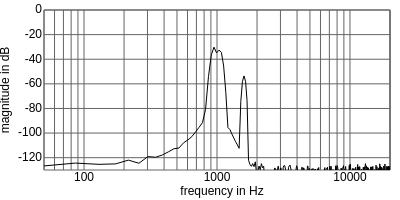
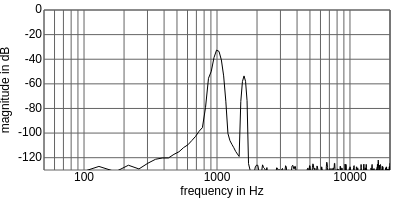
Deploying to gh-pages from @ HSU-ANT/jsdafx@eda25dbcdcd1445925f310c6d4d6ca9c1823e423 🚀

diff --git a/common.js b/common.js
@@ -1,1 +1,1 @@
-const e="object"==typeof global?global:self,t=[].findIndex||function(e,t){let n=this.length;for(;n--;)if(e.call(t,this[n]))return n;return n},n=Object.defineProperty,i="__event-target__"+Math.random(),o=e.WeakMap||function(){return{get:e=>e[i],set(e,t){n(e,i,{configurable:!0,value:t})}}};let r=e.EventTarget;try{new r}catch(e){r=(()=>{const e=new o,i=t=>e.get(t)||r(t),r=t=>{const n=new f;return e.set(t,n),n},l=(e,t)=>{for(const i in t)n(e,i,{configurable:!0,value:t[i]})};function s(){}function a(e){const t=e.options;t&&t.once&&u.call(e.target,this.type,e.listener,e.options),"function"==typeof e.listener?e.listener.call(e.target,this):e.listener.handleEvent(this)}function c(e){return this===e.listener}function u(e,n,o){const r=i(this)[e];if(r){const e=t.call(r,c,n);-1<e&&r.splice(e,1)}}function f(){}return l(s.prototype,{addEventListener:function(e,n,o){const r=i(this),l=r[e]||(r[e]=[]);t.call(l,c,n)<0&&l.push({target:this,listener:n,options:o})},dispatchEvent:function(e){const t=i(this)[e.type];t&&(l(e,{currentTarget:this,target:this}),t.forEach(a,e),delete e.currentTarget,delete e.target);return!0},removeEventListener:u}),f.prototype=Object.create(null),s})()}var l=r;function s(e){const{width:t,height:n}=e,i=e.getContext("2d");let o=!0,r=2e4,l=50,s=null,a=0,c=-80,u=null,f=[],h=null,d=null,p=null,m=30;let v=t-m-10;const g=10;let y=17,T=n-g-y,b=null;const w=function(e){return(r-l)*(e-m)/v+l},k=function(e){return l*Math.pow(10,Math.log10(r/l)*(e-m)/v)};let x=k;const E=function(e){return(e-l)*v/(r-l)+m},A=function(e){return Math.log10(e/l)/Math.log10(r/l)*v+m};let M=A;const P=function(e){return g+T/(c-a)*(e-a)},D=function(e){const t=Math.pow(10,Math.floor(Math.log10(e)));return(e/=t)>5?e=10:e>2?e=5:e>1&&(e=2),e*t},L=function(){i.clearRect(0,0,t,n),i.font="12px sans-serif",i.textBaseline="middle",i.textAlign="end";const e=D((r-l)/v*30),f=D((a-c)/T*20),h=f>=1?0:-Math.floor(Math.log10(f));for(let e=Math.floor(a/f)*f;e>=c;e-=f)i.strokeStyle="rgb(0, 0, 0)",i.fillText(e.toFixed(h),m-2,P(e));if(i.textBaseline="top",i.textAlign="center",i.setTransform(0,-1,1,0,0,0),u&&i.fillText(u,-(T/2+g),0),i.setTransform(1,0,0,1,0,0),o){i.strokeStyle="rgb(0, 0, 0)";for(let e=Math.pow(10,Math.ceil(Math.log10(l)));e<=r;e*=10)i.fillText(e,M(e),n-y+2)}else{i.strokeStyle="rgb(0, 0, 0)";const t=e>=1?0:-Math.floor(Math.log10(e));for(let o=Math.ceil(l/e)*e;o<=r;o+=e)i.fillText(o.toFixed(t),M(o),n-y+2)}s&&i.fillText(s,m+(t-m)/2,n-y+16);for(let e=Math.floor(a/f)*f;e>=c;e-=f)i.strokeStyle="rgb(100, 100, 100)",i.beginPath(),i.moveTo(M(l),P(e)),i.lineTo(M(r),P(e)),i.stroke();if(o){let e=Math.pow(10,Math.floor(Math.log10(l))),t=Math.ceil(l/e)*e;for(i.strokeStyle="rgb(100, 100, 100)";t<=r;){i.beginPath();const n=M(t);i.moveTo(n,P(a)),i.lineTo(n,P(c)),i.stroke(),t+=e,t>=9.99*e&&(e*=10)}}else for(let t=Math.ceil(l/e)*e;t<=r;t+=e){i.beginPath();const e=M(t);i.moveTo(e,P(a)),i.lineTo(e,P(c)),i.stroke()}i.rect(M(l),P(c),M(r)-M(l),P(a)-P(c)),i.stroke(),b=i.getImageData(0,0,t,n)};this.envelopeMode=!1,this.drawData=function(...e){for(i.putImageData(b,0,0),i.save(),i.beginPath(),i.rect(m,g,t-m-10,n-y-g),i.clip();e.length>=2;){const t=e.shift(),n=e.shift();e.length>=1&&"string"==typeof e[0]?i.strokeStyle=e.shift():i.strokeStyle="rgb(0, 0, 0)",i.beginPath(),i.moveTo(M(t[0]),P(n[0]));for(let e=1;e<n.length;e++)i.lineTo(M(t[e]),P(n[e]));if(this.envelopeMode){for(let e=n.length-1;e>=0;e--)i.lineTo(M(t[e]),P(-n[e]));i.fill()}else i.stroke()}i.restore()},this.drawMarkers=function(e){i.save(),i.fillStyle="rgb(165, 0, 52)",f=[];for(const t of e)f.push([M(t[0]),P(t[1])]),i.beginPath(),i.arc(M(t[0]),P(t[1]),4,0,2*Math.PI),i.fill();i.restore()},Object.defineProperty(this,"xlim",{get:()=>[l,l],set(e){[l,r]=e,L()}}),Object.defineProperty(this,"ylim",{get:()=>[c,c],set(e){[c,a]=e,L()}}),Object.defineProperty(this,"logx",{get:()=>o,set(e){o=e,o?(x=k,M=A):(x=w,M=E),L()}}),Object.defineProperty(this,"xlabel",{get:()=>s,set(e){s=e,y=s?30:16,T=n-g-y,L()}}),Object.defineProperty(this,"ylabel",{get:()=>u,set(e){u=e,m=u?44:30,v=t-m-10,L()}});const S=(e,t,n)=>{h=null;let i=n;for(let n=0;n<f.length;n++){const o=f[n],r=Math.hypot(e-o[0],t-o[1]);r<=i&&(h=n,i=r)}null!==h&&(d=e-f[h][0],p=t-f[h][1])};e.addEventListener("mousedown",(e=>{0===e.button&&S(e.offsetX,e.offsetY,6)})),e.addEventListener("touchstart",(e=>{e.preventDefault(),null===h&&S(e.touches.item(0).pageX-e.target.offsetLeft,e.touches.item(0).pageY-e.target.offsetTop,40)}));const C=()=>{if(null!==h){const e=new Event("markermoveend");e.marker=h,this.dispatchEvent(e),h=null}};e.addEventListener("mouseup",(e=>{0===e.button&&C()})),e.addEventListener("touchend",(e=>{e.preventDefault(),0===e.touches.length&&C()}));const B=(e,t)=>{if(null===h)return;const n=new Event("markermove");n.marker=h,n.valX=x(e-d),n.valY=function(e){return a+(e-g)*(c-a)/T}(t-p),this.dispatchEvent(n)};e.addEventListener("mousemove",(e=>{1===e.buttons?B(e.offsetX,e.offsetY):C()})),e.addEventListener("touchmove",(e=>{e.preventDefault(),B(e.touches.item(0).pageX-e.target.offsetLeft,e.touches.item(0).pageY-e.target.offsetTop)}))}class a extends l{constructor(e){super(),s.call(this,e)}}function c(e,t){const n=new a(t);let i=!1,o=!1;Object.defineProperty(this,"drawWave",{get:()=>i,set(t){i=t,t?(n.logx=!1,n.ylim=[-1,1],n.xlim=[0,e.timeIndices.length-1],n.xlabel="time in samples",n.ylabel="amplitude"):(n.xlim=[50,2e4],n.logx=!o,n.ylim=[-130,0],n.xlabel="frequency in Hz",n.ylabel="magnitude in dB")}}),Object.defineProperty(this,"freqLinear",{get:()=>o,set(e){o=e,i||(n.logx=!o)}}),this.drawWave=!1,function t(){if(setTimeout((()=>requestAnimationFrame(t)),40),i){const t=e.getTimeDomainData();n.drawData(e.timeIndices,t)}else{const t=e.getFrequencyDomainData();n.drawData(e.frequencies,t)}}()}async function u(...e){const t=new(window.AudioContext||window.webkitAudioContext)({latencyHint:"playback"});let n=null,i=null,o=null;const r=t.createAnalyser();r.smoothingTimeConstant=.3,r.minDecibels=-130,r.fftSize=1024;const l=new Float32Array(r.fftSize),s=new Float32Array(r.frequencyBinCount);r.connect(t.destination);let a=null,c=0;await t.audioWorklet.addModule("noisesourceproc.js");const u="object"==typeof e[0]?e[0]:function(e,t){return{init:async n=>{await n.audioWorklet.addModule(e);const i=new AudioWorkletNode(n,t);i.port.postMessage({action:"list-properties"});const o=await(r=i.port,new Promise((e=>{const t=r.onmessage;r.onmessage=n=>{r.onmessage=t,e(n.data)}})));var r;if("list-properties"===o.response)for(const e of o.properties)Object.defineProperty(i,e,{set(t){i.port.postMessage({action:"set-property",param:e,value:t})}});return i},setup:(e,t,n)=>{t.connect(e),e.connect(n)},teardown:e=>{e.disconnect()}}}(...e),f=await u.init(t),h=new Float32Array(r.frequencyBinCount);for(let e=0;e<h.length;e++)h[e]=e*t.sampleRate/2/(h.length-1);const d=new Float32Array(r.fftSize);for(let e=0;e<d.length;e++)d[e]=e;const p=function(){a=null,null!==n&&(n.disconnect(),n=null),null!==i&&(i.disconnect(),i=null),u.teardown(f),t.suspend()};return p(),{start:function(e,l,s){if(p(),t.resume(),a=t.currentTime,e instanceof AudioBuffer)n=t.createBufferSource(),n.buffer=e,c=void 0===l?0:l,void 0!==s&&(n.loopStart=c,n.loopEnd=s),n.loop=!0,n.start(0,c),u.setup(f,n,r);else if("sine"===e.type)n=t.createOscillator(),n.type="sine",n.frequency.value=e.frequency,n.start(),i=t.createGain(),i.gain.value=e.gain,n.connect(i),u.setup(f,i,r);else if("noise"===e.type){if(i=t.createGain(),i.gain.value=e.gain,n=new AudioWorkletNode(t,"noisesource-processor",{numberOfInputs:0,outputChannelCount:[1]}),e.filter&&0!==e.filter.length){o=t.createConvolver();const r=t.createBuffer(1,e.filter.length,t.sampleRate);r.getChannelData(0).set(e.filter),o.normalize=!1,o.buffer=r,n.connect(o),o.connect(i)}else n.connect(i);u.setup(f,i,r)}},stop:p,isPlaying:()=>null!==n,createBuffer:e=>new Promise((n=>{t.decodeAudioData(e,n)})),getTimeDomainData:function(){return r.getFloatTimeDomainData(l),l},timeIndices:d,getFrequencyDomainData:function(){return r.getFloatFrequencyData(s),s},frequencies:h,proc:f,get currentTime(){return t.currentTime},get sampleRate(){return t.sampleRate},get position(){if(null===a)return null;let e=this.currentTime-a;return n instanceof AudioBufferSourceNode&&(e=0!==n.loopEnd?e%(n.loopEnd-n.loopStart)+n.loopStart:(e+c)%n.buffer.duration),e}}}class f extends l{constructor(e){super();const t=e.getContext("2d"),{width:n,height:i}=e,o=Array(n),r=Array(n);let l=null,s=null,a=null,c=null,u=null,f=null;const h=()=>{if(t.fillStyle="rgb(221, 218, 215)",t.strokeStyle="rgb(186, 180, 175)",t.fillRect(0,0,n,i),t.strokeRect(0,0,n,i),l instanceof AudioBuffer){t.fillStyle="rgb(186, 180, 175)",null!==a&&(null!==s?t.fillRect(a,0,s-a,i):(t.beginPath(),t.moveTo(a,0),t.lineTo(a,i),t.stroke())),null!==c&&null!==u&&t.fillRect(c,0,u-c,i),t.fillStyle="black",t.beginPath(),t.moveTo(0,i/2);for(let e=0;e<n;e++)t.lineTo(e,(o[e]+1)*i/2);for(let e=n-1;e>=0;e--)t.lineTo(e,(r[e]+1)*i/2);if(t.fill(),null!==f){const e=Math.round(f/l.duration*n);t.lineWidth=1,t.strokeStyle="rgb(165, 0, 52)",t.beginPath(),t.moveTo(e,0),t.lineTo(e,i),t.stroke(),t.strokeStyle="white",t.beginPath(),t.moveTo(e,(r[e]+1)*i/2),t.lineTo(e,(o[e]+1)*i/2),t.stroke()}}},d=e=>{s=e,a=null,c=null,u=null},p=e=>{a=e,h()},m=()=>{if(null!==s){if(l instanceof AudioBuffer)if(null!==a&&a!==s){s>a&&([s,a]=[a,s]);const e=new Event("selected");e.startPos=s*l.length/n/l.sampleRate,e.endPos=a*l.length/n/l.sampleRate,this.dispatchEvent(e),c=s,u=a}else{const e=new Event("clicked");e.position=s*l.length/n/l.sampleRate,this.dispatchEvent(e)}s=null,a=null,h()}};e.addEventListener("mousedown",(e=>{0===e.button&&d(e.offsetX)})),e.addEventListener("touchstart",(e=>{e.preventDefault(),d(e.touches.item(0).pageX-e.target.offsetLeft)})),e.addEventListener("mousemove",(e=>{p(e.offsetX)})),e.addEventListener("touchmove",(e=>{e.preventDefault(),p(e.touches.item(0).pageX-e.target.offsetLeft)})),e.addEventListener("mouseup",(e=>{0===e.button&&m()})),e.addEventListener("touchend",(e=>{e.preventDefault(),0===e.touches.length&&m()})),e.addEventListener("mouseleave",(()=>{null===s&&(a=null,h())})),Object.defineProperty(this,"signal",{set(e){if(e instanceof AudioBuffer){l=e,o.fill(-1),r.fill(1);for(let e=0;e<l.numberOfChannels;e++){const t=l.getChannelData(e);for(let e=0;e<t.length;e++){const i=Math.round(e*n/t.length);t[e]>o[i]&&(o[i]=t[e]),t[e]<r[i]&&(r[i]=t[e])}}}else l=null;c=null,u=null,h()}}),Object.defineProperty(this,"selection",{get:()=>null!==c&&null!==u?{start:c*l.length/n/l.sampleRate,end:u*l.length/n/l.sampleRate}:null}),Object.defineProperty(this,"playbackPosition",{set(e){f=e,h()}})}}function h(e,t){const n=[];let i=null;const o=document.getElementById("source-select"),r=o.children[1];o.children[0].addEventListener("click",(e=>{e.stopPropagation(),r.style.visibility="visible"===r.style.visibility?"hidden":"visible"}),!1),document.addEventListener("click",(()=>{r.style.visibility="hidden"}),!1);const l=document.getElementById("play"),s=document.getElementById("stop"),a=new f(document.getElementById("timelinecanvas"));function c(){e.isPlaying()?(l.disabled=!0,s.disabled=!1):(s.disabled=!0,l.disabled=!n[i])}function u(t){i=Number(t.getAttribute("data-source-idx")),o.children[0].innerText=t.textContent,function e(t){t.classList.remove("selected"),Array.from(t.children).forEach(e)}(r),t.classList.add("selected"),e.stop(),c(),a.signal=n[i]}function h(e,t){e.innerText=t,Number(e.getAttribute("data-source-idx"))===i&&(o.children[0].innerText=t)}t.forEach((async function(t){const o=document.createElement("div");if(o.setAttribute("data-source-idx",n.length),r.children[0].append(o),o.addEventListener("click",(e=>{u(e.target)})),"remote"===t.type){o.innerText=`${t.label} (loading...)`;const r=n.length;n.push(null);const l=await window.fetch(t.url);n[r]=await e.createBuffer(await l.arrayBuffer()),h(o,t.label),r===i&&(a.signal=n[r])}else if("sine"===t.type){const e=t.frequency||440;o.innerText=t.label||`${e} Hz sine`,n.push({type:"sine",frequency:e,gain:t.gain||.5})}else"noise"===t.type&&(o.innerText=t.label||"Noise",n.push({type:"noise",filter:t.filter||[],gain:t.gain||.5}));c()})),s.onclick=function(){e.stop(),c()},l.onclick=function(){const t=a.selection;null!==t?e.start(n[i],t.start,t.end):e.start(n[i]),c()};const d=r.children[1],p=d.children[0],m=document.createElement("input");m.type="file",m.accept="audio/*",m.addEventListener("change",(async t=>{const i=t.target.files[0];if(!i)return;const o=document.createElement("div");o.setAttribute("data-source-idx",n.length),o.innerText=`${i.name} (loading...)`,u(o),d.insertBefore(o,p);const r=n.length;o.addEventListener("click",(e=>{u(e.target)})),n.push(null);const l=await new Promise((e=>{const t=new FileReader;t.onload=t=>{e(t.target.result)},t.readAsArrayBuffer(i)}));n[r]=await e.createBuffer(l),h(o,i.name),c()}),!1),0===t.length?o.children[0].innerText="input signal":u(r.children[0].children[0]),p.addEventListener("click",(()=>{m.click()})),a.addEventListener("clicked",(t=>{e.stop(),e.start(n[i],t.position),c()})),a.addEventListener("selected",(t=>{e.stop(),e.start(n[i],t.startPos,t.endPos),c()}));const v=()=>{a.playbackPosition=e.position,setTimeout((()=>requestAnimationFrame(v)),40)};v()}void 0===Math.log10&&(Math.log10=function(e){return Math.LOG10E*Math.log(e)}),void 0===AnalyserNode.prototype.getFloatTimeDomainData&&(AnalyserNode.prototype.getFloatTimeDomainData=function(e){const t=new Uint8Array(e.length);this.getByteTimeDomainData(t);for(let n=0;n<e.length;n++)e[n]=(t[n]-128)/128}),void 0===document.createElement("input").labels&&Object.defineProperty(HTMLInputElement.prototype,"labels",{get(){return document.querySelectorAll(`label[for=${this.id}]`)}}),"serviceWorker"in navigator&&window.addEventListener("load",(async()=>{try{await navigator.serviceWorker.register("sw.js",{type:"module"})}catch(e){console.warn("ServiceWorker registration failed: ",e)}}));export{a as FunctionGraph,c as SignalGraph,u as setupAudio,h as setupPlayerControls};!function(){function e(e,t){var n=document.createElement("iframe");n.style.cssText="position:absolute;left:0;top:-999px;width:1px;height:1px;",t.appendChild(n);var i=n.contentWindow,o=i.document,r="var window,$hook";for(var l in i)l in e||"eval"===l||(r+=",",r+=l);for(var s in e)r+=",",r+=s,r+="=self.",r+=s;var a=o.createElement("script");a.appendChild(o.createTextNode('function $hook(self,console) {"use strict";\n        '+r+";return function() {return eval(arguments[0])}}")),o.body.appendChild(a),this.exec=i.$hook(e,console)}var t,n=[];function i(e){for(var t=[],n=0;n<e.numberOfChannels;n++)t[n]=e.getChannelData(n);return t}function o(e){return e.$$processors||(e.$$processors={})}"function"!=typeof AudioWorkletNode&&(self.AudioWorkletNode=function(e,r,l){var s=o(e)[r],a=e.createScriptProcessor(void 0,2,l&&l.outputChannelCount?l.outputChannelCount[0]:2),c=new Map;function u(e,t){this.eventTime=t,this.v=e}function f(e,t){this.eventTime=t,this.v1=e}function h(e,t){this.eventTime=t,this.v1=e}function d(e,t,n){this.eventTime=t,this.v1=e,this.tau=n}function p(e,t,n){this.eventTime=t,this.values=e,this.duration=n}function m(e,t,n){e.v0=t,e.t0=n}function v(t,n){for(var i=c.get(t),o=i.length-1;o>=0&&i[o].eventTime>n.eventTime;)o--;if(-1===o){var r=a.parameters.get(t).value,l=e.currentTime;n instanceof u?m(n,r,l):(i.splice(0,0,new u(r,l)),o=0)}i.splice(o+1,0,n)}if(u.prototype.func=function(e){return e>=this.eventTime?this.v:this.v0},f.prototype.func=function(e){return e>=this.eventTime?this.v1:e<=this.t0||this.v1*this.v0<=0?this.v0:this.v0*Math.pow(this.v1/this.v0,(e-this.t0)/(this.eventTime-this.t0))},h.prototype.func=function(e){return e>=this.eventTime?this.v1:e<=this.t0?this.v0:this.v0+(this.v1-this.v0)*(e-this.t0)/(this.eventTime-this.t0)},d.prototype.func=function(e){return e<=this.eventTime?this.v0:this.v1+(this.v0-this.v1)*Math.exp((this.eventTime-e)/this.tau)},p.prototype.func=function(e){if(e<=this.eventTime)return this.v0;var t=this.duration/(this.values.length-1),n=Math.floor((e-this.eventTime)/t);return n>=this.values.length-1?this.values[this.values.length-1]:this.values[n]+(this.values[n+1]-this.values[n])*(e-(n*t+this.eventTime))/t},a.parameters=new Map,s.properties)for(var g=function(){var t=s.properties[y],n=e.createGain().gain;n.value=t.defaultValue,n.cancelAndHoldAtTime=function(e){for(var n=c.get(t.name),i=0;i<n.length&&n[i].eventTime<=e;)i++;var o=i>0?n[i-1]:null,r=i<n.length?n[i]:null;if(r instanceof h||r instanceof f){for(var l=1;l<=i;l++){var s=n[l-1].eventTime;m(n[l],n[l-1].func(s),s)}r.v1=r.func(e),r.eventTime=e,i+=1}else if(o instanceof d){for(var a=1;a<i;a++){var v=n[a-1].eventTime;m(n[a],n[a-1].func(v),v)}n.splice(i,0,new u(o.func(e),e)),i+=1}else if(o instanceof p&&e<o.eventTime+o.duration){var g=o.func(e),y=Math.floor((e-o.eventTime)/o.duration*o.values.length);o.duration=y/o.values.length*o.duration,o.values.splice(y),n.splice(i,0,new h(g,e))}n.splice(i)},n.cancelScheduledValues=function(e){for(var n=c.get(t.name),i=0;i<n.length&&n[i].eventTime<=e;)i++;n.splice(i);for(var o=1;o<i;o++){var r=n[o-1].eventTime;m(n[o],n[o-1].func(r),r)}i>0&&n.push(new u(n[i-1].func(e),e))},n.exponentialRampToValueAtTime=function(n,i){i<e.currentTime&&(i=e.currentTime),v(t.name,new f(n,i))},n.linearRampToValueAtTime=function(n,i){i<e.currentTime&&(i=e.currentTime),v(t.name,new h(n,i))},n.setTargetAtTime=function(n,i,o){i<e.currentTime&&(i=e.currentTime),v(t.name,new d(n,i,o))},n.setValueAtTime=function(e,n){v(t.name,new u(e,n))},n.setValueAtTime=function(n,i,o){i<e.currentTime&&(i=e.currentTime),v(t.name,new p(Array.from(n),i,o))},a.parameters.set(t.name,n),c.set(t.name,[])},y=0;y<s.properties.length;y++)g();var T=new MessageChannel;t=T.port2;var b=new s.Processor(l||{});return t=null,a.port=T.port1,a.processor=s,a.instance=b,a.onaudioprocess=function(t){var o=this,r={},l=-1;this.parameters.forEach((function(t,i){var s=n[++l]||(n[l]=new Float32Array(o.bufferSize)),a=c.get(i);if(0===a.length)s.fill(t.value);else{for(var u=0;u<s.length;u++){for(var f=e.currentTime+u/e.sampleRate;0!==a.length&&f>a[0].eventTime;){if(a[0]instanceof d){if(a.length<2)break;if(a[1]instanceof d&&f<a[1].eventTime)break;t.value=a[0].func(a[1].eventTime)}else if(a[0]instanceof p){if(f<a[0].eventTime+a[0].duration)break;t.value=a[0].values[a[0].values.length-1]}else t.value=a[0].func(a[0].eventTime);a.shift(),0!==a.length&&m(a[0],t.value,f)}if(0===a.length){s.fill(t.value,u);break}s[u]=a[0].func(f)}t.value=s[s.length-1]}r[i]=s})),this.processor.realm.exec("self.sampleRate=sampleRate="+this.context.sampleRate+";self.currentTime=currentTime="+this.context.currentTime);var s=i(t.inputBuffer),a=i(t.outputBuffer);this.instance.process([s],[a],r)},a},Object.defineProperty((self.AudioContext||self.webkitAudioContext).prototype,"audioWorklet",{get:function(){return this.$$audioWorklet||(this.$$audioWorklet=new self.AudioWorklet(this))}}),self.AudioWorklet=function(){function n(e){this.$$context=e}return n.prototype.addModule=function(n,i){var r=this;return fetch(n).then((function(e){if(!e.ok)throw Error(e.status);return e.text()})).then((function(n){var l={sampleRate:0,currentTime:0,AudioWorkletProcessor:function(){this.port=t},registerProcessor:function(e,t){o(r.$$context)[e]={realm:s,context:l,Processor:t,properties:t.parameterDescriptors||[]}}};l.self=l;var s=new e(l,document.documentElement);return s.exec((i&&i.transpile||String)(n)),null}))},n}())}();
+const e="object"==typeof global?global:self,t=[].findIndex||function(e,t){let n=this.length;for(;n--;)if(e.call(t,this[n]))return n;return n},n=Object.defineProperty,i="__event-target__"+Math.random(),o=e.WeakMap||function(){return{get:e=>e[i],set(e,t){n(e,i,{configurable:!0,value:t})}}};let r=e.EventTarget;try{new r}catch(e){r=(()=>{const e=new o,i=t=>e.get(t)||r(t),r=t=>{const n=new f;return e.set(t,n),n},l=(e,t)=>{for(const i in t)n(e,i,{configurable:!0,value:t[i]})};function s(){}function a(e){const t=e.options;t&&t.once&&u.call(e.target,this.type,e.listener,e.options),"function"==typeof e.listener?e.listener.call(e.target,this):e.listener.handleEvent(this)}function c(e){return this===e.listener}function u(e,n,o){const r=i(this)[e];if(r){const e=t.call(r,c,n);-1<e&&r.splice(e,1)}}function f(){}return l(s.prototype,{addEventListener:function(e,n,o){const r=i(this),l=r[e]||(r[e]=[]);t.call(l,c,n)<0&&l.push({target:this,listener:n,options:o})},dispatchEvent:function(e){const t=i(this)[e.type];t&&(l(e,{currentTarget:this,target:this}),t.forEach(a,e),delete e.currentTarget,delete e.target);return!0},removeEventListener:u}),f.prototype=Object.create(null),s})()}var l=r;function s(e){let{width:t,height:n}=e;const i=e.getContext("2d");let o=!0,r=2e4,l=50,s=null,a=0,c=-80,u=null,f=[],h=null,d=null,p=null,m=30;let v=t-m-10;const g=10;let y=17,T=n-g-y,b=null;const w=function(e){return(r-l)*(e-m)/v+l},k=function(e){return l*Math.pow(10,Math.log10(r/l)*(e-m)/v)};let x=k;const E=function(e){return(e-l)*v/(r-l)+m},M=function(e){return Math.log10(e/l)/Math.log10(r/l)*v+m};let A=M;const P=function(e){return g+T/(c-a)*(e-a)},S=function(e){return a+(e-g)*(c-a)/T},D=function(e){const t=Math.pow(10,Math.floor(Math.log10(e)));return(e/=t)>5?e=10:e>2?e=5:e>1&&(e=2),e*t},L=function(){i.clearRect(0,0,t,n),i.font="12px sans-serif",i.textBaseline="middle",i.textAlign="end";const e=D((r-l)/v*30),f=D((a-c)/T*20),h=f>=1?0:-Math.floor(Math.log10(f));for(let e=Math.floor(a/f)*f;e>=c;e-=f)i.strokeStyle="rgb(0, 0, 0)",i.fillText(e.toFixed(h),m-2,P(e));if(i.textBaseline="top",i.textAlign="center",i.setTransform(0,-1,1,0,0,0),u&&i.fillText(u,-(T/2+g),0),i.setTransform(1,0,0,1,0,0),o){i.strokeStyle="rgb(0, 0, 0)";for(let e=Math.pow(10,Math.ceil(Math.log10(l)));e<=r;e*=10)i.fillText(e,A(e),n-y+2)}else{i.strokeStyle="rgb(0, 0, 0)";const t=e>=1?0:-Math.floor(Math.log10(e));for(let o=Math.ceil(l/e)*e;o<=r;o+=e)i.fillText(o.toFixed(t),A(o),n-y+2)}s&&i.fillText(s,m+(t-m)/2,n-y+16);for(let e=Math.floor(a/f)*f;e>=c;e-=f)i.strokeStyle="rgb(100, 100, 100)",i.beginPath(),i.moveTo(A(l),P(e)),i.lineTo(A(r),P(e)),i.stroke();if(o){let e=Math.pow(10,Math.floor(Math.log10(l))),t=Math.ceil(l/e)*e;for(i.strokeStyle="rgb(100, 100, 100)";t<=r;){i.beginPath();const n=A(t);i.moveTo(n,P(a)),i.lineTo(n,P(c)),i.stroke(),t+=e,t>=9.99*e&&(e*=10)}}else for(let t=Math.ceil(l/e)*e;t<=r;t+=e){i.beginPath();const e=A(t);i.moveTo(e,P(a)),i.lineTo(e,P(c)),i.stroke()}i.rect(A(l),P(c),A(r)-A(l),P(a)-P(c)),i.stroke(),b=i.getImageData(0,0,t,n)};this.envelopeMode=!1;let B=[];const C=()=>{i.putImageData(b,0,0),i.save(),i.beginPath(),i.rect(m,g,t-m-10,n-y-g),i.clip();for(let e=0;e+1<B.length;e+=2){const t=B[e],n=B[e+1];e+2<B.length&&"string"==typeof B[e+2]?(i.strokeStyle=B[e+2],e++):i.strokeStyle="rgb(0, 0, 0)",i.beginPath(),i.moveTo(A(t[0]),P(n[0]));for(let e=1;e<n.length;e++)i.lineTo(A(t[e]),P(n[e]));if(this.envelopeMode){for(let e=n.length-1;e>=0;e--)i.lineTo(A(t[e]),P(-n[e]));i.fill()}else i.stroke()}i.restore()};this.drawData=function(...e){B=e,C()},this.drawMarkers=function(e){i.save(),i.fillStyle="rgb(165, 0, 52)",f=[];for(const t of e)f.push([A(t[0]),P(t[1])]),i.beginPath(),i.arc(A(t[0]),P(t[1]),4,0,2*Math.PI),i.fill();i.restore()},Object.defineProperty(this,"xlim",{get:()=>[l,l],set(e){[l,r]=e,L(),C()}}),Object.defineProperty(this,"ylim",{get:()=>[c,c],set(e){[c,a]=e,L(),C()}}),Object.defineProperty(this,"logx",{get:()=>o,set(e){o=e,o?(x=k,A=M):(x=w,A=E),L(),C()}}),Object.defineProperty(this,"xlabel",{get:()=>s,set(e){s=e,y=s?30:16,T=n-g-y,L(),C()}}),Object.defineProperty(this,"ylabel",{get:()=>u,set(e){u=e,m=u?44:30,v=t-m-10,L(),C()}});const R=(e,t,n)=>{h=null;let i=n;for(let n=0;n<f.length;n++){const o=f[n],r=Math.hypot(e-o[0],t-o[1]);r<=i&&(h=n,i=r)}null!==h&&(d=e-f[h][0],p=t-f[h][1])};e.addEventListener("mousedown",(e=>{0===e.button&&R(e.offsetX,e.offsetY,6)})),e.addEventListener("touchstart",(e=>{e.preventDefault(),null===h&&R(e.touches.item(0).pageX-e.target.offsetLeft,e.touches.item(0).pageY-e.target.offsetTop,40)}));const O=()=>{if(null!==h){const e=new Event("markermoveend");e.marker=h,this.dispatchEvent(e),h=null}};e.addEventListener("mouseup",(e=>{0===e.button&&O()})),e.addEventListener("touchend",(e=>{e.preventDefault(),0===e.touches.length&&O()}));const W=(e,t)=>{if(null===h)return;const n=new Event("markermove");n.marker=h,n.valX=x(e-d),n.valY=S(t-p),this.dispatchEvent(n)};e.addEventListener("mousemove",(e=>{1===e.buttons?W(e.offsetX,e.offsetY):O()})),e.addEventListener("touchmove",(e=>{e.preventDefault(),W(e.touches.item(0).pageX-e.target.offsetLeft,e.touches.item(0).pageY-e.target.offsetTop)}));new ResizeObserver((e=>{for(const i of e)i.contentBoxSize?i.contentBoxSize[0]?(t=i.contentBoxSize[0].inlineSize,n=i.contentBoxSize[0].blockSize):(t=i.contentBoxSize.inlineSize,n=i.contentBoxSize.blockSize):(t=i.contentRect.width,n=i.contentRect.height);const i=f.map((([e,t])=>[x(e),S(t)]));v=t-m-10,T=n-g-y,L(),C(),this.drawMarkers(i)})).observe(e)}class a extends l{constructor(e){super(),s.call(this,e)}}function c(e,t){const n=new a(t);let i=!1,o=!1;Object.defineProperty(this,"drawWave",{get:()=>i,set(t){i=t,t?(n.logx=!1,n.ylim=[-1,1],n.xlim=[0,e.timeIndices.length-1],n.xlabel="time in samples",n.ylabel="amplitude"):(n.xlim=[50,2e4],n.logx=!o,n.ylim=[-130,0],n.xlabel="frequency in Hz",n.ylabel="magnitude in dB")}}),Object.defineProperty(this,"freqLinear",{get:()=>o,set(e){o=e,i||(n.logx=!o)}}),this.drawWave=!1,function t(){if(setTimeout((()=>requestAnimationFrame(t)),40),i){const t=e.getTimeDomainData();n.drawData(e.timeIndices,t)}else{const t=e.getFrequencyDomainData();n.drawData(e.frequencies,t)}}()}async function u(...e){const t=new(window.AudioContext||window.webkitAudioContext)({latencyHint:"playback"});let n=null,i=null,o=null;const r=t.createAnalyser();r.smoothingTimeConstant=.3,r.minDecibels=-130,r.fftSize=1024;const l=new Float32Array(r.fftSize),s=new Float32Array(r.frequencyBinCount);r.connect(t.destination);let a=null,c=0;await t.audioWorklet.addModule("noisesourceproc.js");const u="object"==typeof e[0]?e[0]:function(e,t){return{init:async n=>{await n.audioWorklet.addModule(e);const i=new AudioWorkletNode(n,t);i.port.postMessage({action:"list-properties"});const o=await(r=i.port,new Promise((e=>{const t=r.onmessage;r.onmessage=n=>{r.onmessage=t,e(n.data)}})));var r;if("list-properties"===o.response)for(const e of o.properties)Object.defineProperty(i,e,{set(t){i.port.postMessage({action:"set-property",param:e,value:t})}});return i},setup:(e,t,n)=>{t.connect(e),e.connect(n)},teardown:e=>{e.disconnect()}}}(...e),f=await u.init(t),h=new Float32Array(r.frequencyBinCount);for(let e=0;e<h.length;e++)h[e]=e*t.sampleRate/2/(h.length-1);const d=new Float32Array(r.fftSize);for(let e=0;e<d.length;e++)d[e]=e;const p=function(){a=null,null!==n&&(n.disconnect(),n=null),null!==i&&(i.disconnect(),i=null),u.teardown(f),t.suspend()};return p(),{start:function(e,l,s){if(p(),t.resume(),a=t.currentTime,e instanceof AudioBuffer)n=t.createBufferSource(),n.buffer=e,c=void 0===l?0:l,void 0!==s&&(n.loopStart=c,n.loopEnd=s),n.loop=!0,n.start(0,c),u.setup(f,n,r);else if("sine"===e.type)n=t.createOscillator(),n.type="sine",n.frequency.value=e.frequency,n.start(),i=t.createGain(),i.gain.value=e.gain,n.connect(i),u.setup(f,i,r);else if("noise"===e.type){if(i=t.createGain(),i.gain.value=e.gain,n=new AudioWorkletNode(t,"noisesource-processor",{numberOfInputs:0,outputChannelCount:[1]}),e.filter&&0!==e.filter.length){o=t.createConvolver();const r=t.createBuffer(1,e.filter.length,t.sampleRate);r.getChannelData(0).set(e.filter),o.normalize=!1,o.buffer=r,n.connect(o),o.connect(i)}else n.connect(i);u.setup(f,i,r)}},stop:p,isPlaying:()=>null!==n,createBuffer:e=>new Promise((n=>{t.decodeAudioData(e,n)})),getTimeDomainData:function(){return r.getFloatTimeDomainData(l),l},timeIndices:d,getFrequencyDomainData:function(){return r.getFloatFrequencyData(s),s},frequencies:h,proc:f,get currentTime(){return t.currentTime},get sampleRate(){return t.sampleRate},get position(){if(null===a)return null;let e=this.currentTime-a;return n instanceof AudioBufferSourceNode&&(e=0!==n.loopEnd?e%(n.loopEnd-n.loopStart)+n.loopStart:(e+c)%n.buffer.duration),e}}}class f extends l{constructor(e){super();const t=e.getContext("2d"),{width:n,height:i}=e,o=Array(n),r=Array(n);let l=null,s=null,a=null,c=null,u=null,f=null;const h=()=>{if(t.fillStyle="rgb(221, 218, 215)",t.strokeStyle="rgb(186, 180, 175)",t.fillRect(0,0,n,i),t.strokeRect(0,0,n,i),l instanceof AudioBuffer){t.fillStyle="rgb(186, 180, 175)",null!==a&&(null!==s?t.fillRect(a,0,s-a,i):(t.beginPath(),t.moveTo(a,0),t.lineTo(a,i),t.stroke())),null!==c&&null!==u&&t.fillRect(c,0,u-c,i),t.fillStyle="black",t.beginPath(),t.moveTo(0,i/2);for(let e=0;e<n;e++)t.lineTo(e,(o[e]+1)*i/2);for(let e=n-1;e>=0;e--)t.lineTo(e,(r[e]+1)*i/2);if(t.fill(),null!==f){const e=Math.round(f/l.duration*n);t.lineWidth=1,t.strokeStyle="rgb(165, 0, 52)",t.beginPath(),t.moveTo(e,0),t.lineTo(e,i),t.stroke(),t.strokeStyle="white",t.beginPath(),t.moveTo(e,(r[e]+1)*i/2),t.lineTo(e,(o[e]+1)*i/2),t.stroke()}}},d=e=>{s=e,a=null,c=null,u=null},p=e=>{a=e,h()},m=()=>{if(null!==s){if(l instanceof AudioBuffer)if(null!==a&&a!==s){s>a&&([s,a]=[a,s]);const e=new Event("selected");e.startPos=s*l.length/n/l.sampleRate,e.endPos=a*l.length/n/l.sampleRate,this.dispatchEvent(e),c=s,u=a}else{const e=new Event("clicked");e.position=s*l.length/n/l.sampleRate,this.dispatchEvent(e)}s=null,a=null,h()}};e.addEventListener("mousedown",(e=>{0===e.button&&d(e.offsetX)})),e.addEventListener("touchstart",(e=>{e.preventDefault(),d(e.touches.item(0).pageX-e.target.offsetLeft)})),e.addEventListener("mousemove",(e=>{p(e.offsetX)})),e.addEventListener("touchmove",(e=>{e.preventDefault(),p(e.touches.item(0).pageX-e.target.offsetLeft)})),e.addEventListener("mouseup",(e=>{0===e.button&&m()})),e.addEventListener("touchend",(e=>{e.preventDefault(),0===e.touches.length&&m()})),e.addEventListener("mouseleave",(()=>{null===s&&(a=null,h())})),Object.defineProperty(this,"signal",{set(e){if(e instanceof AudioBuffer){l=e,o.fill(-1),r.fill(1);for(let e=0;e<l.numberOfChannels;e++){const t=l.getChannelData(e);for(let e=0;e<t.length;e++){const i=Math.round(e*n/t.length);t[e]>o[i]&&(o[i]=t[e]),t[e]<r[i]&&(r[i]=t[e])}}}else l=null;c=null,u=null,h()}}),Object.defineProperty(this,"selection",{get:()=>null!==c&&null!==u?{start:c*l.length/n/l.sampleRate,end:u*l.length/n/l.sampleRate}:null}),Object.defineProperty(this,"playbackPosition",{set(e){f=e,h()}})}}function h(e,t){const n=[];let i=null;const o=document.getElementById("source-select"),r=o.children[1];o.children[0].addEventListener("click",(e=>{e.stopPropagation(),r.style.visibility="visible"===r.style.visibility?"hidden":"visible"}),!1),document.addEventListener("click",(()=>{r.style.visibility="hidden"}),!1);const l=document.getElementById("play"),s=document.getElementById("stop"),a=new f(document.getElementById("timelinecanvas"));function c(){e.isPlaying()?(l.disabled=!0,s.disabled=!1):(s.disabled=!0,l.disabled=!n[i])}function u(t){i=Number(t.getAttribute("data-source-idx")),o.children[0].innerText=t.textContent,function e(t){t.classList.remove("selected"),Array.from(t.children).forEach(e)}(r),t.classList.add("selected"),e.stop(),c(),a.signal=n[i]}function h(e,t){e.innerText=t,Number(e.getAttribute("data-source-idx"))===i&&(o.children[0].innerText=t)}t.forEach((async function(t){const o=document.createElement("div");if(o.setAttribute("data-source-idx",n.length),r.children[0].append(o),o.addEventListener("click",(e=>{u(e.target)})),"remote"===t.type){o.innerText=`${t.label} (loading...)`;const r=n.length;n.push(null);const l=await window.fetch(t.url);n[r]=await e.createBuffer(await l.arrayBuffer()),h(o,t.label),r===i&&(a.signal=n[r])}else if("sine"===t.type){const e=t.frequency||440;o.innerText=t.label||`${e} Hz sine`,n.push({type:"sine",frequency:e,gain:t.gain||.5})}else"noise"===t.type&&(o.innerText=t.label||"Noise",n.push({type:"noise",filter:t.filter||[],gain:t.gain||.5}));c()})),s.onclick=function(){e.stop(),c()},l.onclick=function(){const t=a.selection;null!==t?e.start(n[i],t.start,t.end):e.start(n[i]),c()};const d=r.children[1],p=d.children[0],m=document.createElement("input");m.type="file",m.accept="audio/*",m.addEventListener("change",(async t=>{const i=t.target.files[0];if(!i)return;const o=document.createElement("div");o.setAttribute("data-source-idx",n.length),o.innerText=`${i.name} (loading...)`,u(o),d.insertBefore(o,p);const r=n.length;o.addEventListener("click",(e=>{u(e.target)})),n.push(null);const l=await new Promise((e=>{const t=new FileReader;t.onload=t=>{e(t.target.result)},t.readAsArrayBuffer(i)}));n[r]=await e.createBuffer(l),h(o,i.name),c()}),!1),0===t.length?o.children[0].innerText="input signal":u(r.children[0].children[0]),p.addEventListener("click",(()=>{m.click()})),a.addEventListener("clicked",(t=>{e.stop(),e.start(n[i],t.position),c()})),a.addEventListener("selected",(t=>{e.stop(),e.start(n[i],t.startPos,t.endPos),c()}));const v=()=>{a.playbackPosition=e.position,setTimeout((()=>requestAnimationFrame(v)),40)};v()}void 0===Math.log10&&(Math.log10=function(e){return Math.LOG10E*Math.log(e)}),void 0===AnalyserNode.prototype.getFloatTimeDomainData&&(AnalyserNode.prototype.getFloatTimeDomainData=function(e){const t=new Uint8Array(e.length);this.getByteTimeDomainData(t);for(let n=0;n<e.length;n++)e[n]=(t[n]-128)/128}),void 0===document.createElement("input").labels&&Object.defineProperty(HTMLInputElement.prototype,"labels",{get(){return document.querySelectorAll(`label[for=${this.id}]`)}}),"serviceWorker"in navigator&&window.addEventListener("load",(async()=>{try{await navigator.serviceWorker.register("sw.js",{type:"module"})}catch(e){console.warn("ServiceWorker registration failed: ",e)}}));export{a as FunctionGraph,c as SignalGraph,u as setupAudio,h as setupPlayerControls};!function(){function e(e,t){var n=document.createElement("iframe");n.style.cssText="position:absolute;left:0;top:-999px;width:1px;height:1px;",t.appendChild(n);var i=n.contentWindow,o=i.document,r="var window,$hook";for(var l in i)l in e||"eval"===l||(r+=",",r+=l);for(var s in e)r+=",",r+=s,r+="=self.",r+=s;var a=o.createElement("script");a.appendChild(o.createTextNode('function $hook(self,console) {"use strict";\n        '+r+";return function() {return eval(arguments[0])}}")),o.body.appendChild(a),this.exec=i.$hook(e,console)}var t,n=[];function i(e){for(var t=[],n=0;n<e.numberOfChannels;n++)t[n]=e.getChannelData(n);return t}function o(e){return e.$$processors||(e.$$processors={})}"function"!=typeof AudioWorkletNode&&(self.AudioWorkletNode=function(e,r,l){var s=o(e)[r],a=e.createScriptProcessor(void 0,2,l&&l.outputChannelCount?l.outputChannelCount[0]:2),c=new Map;function u(e,t){this.eventTime=t,this.v=e}function f(e,t){this.eventTime=t,this.v1=e}function h(e,t){this.eventTime=t,this.v1=e}function d(e,t,n){this.eventTime=t,this.v1=e,this.tau=n}function p(e,t,n){this.eventTime=t,this.values=e,this.duration=n}function m(e,t,n){e.v0=t,e.t0=n}function v(t,n){for(var i=c.get(t),o=i.length-1;o>=0&&i[o].eventTime>n.eventTime;)o--;if(-1===o){var r=a.parameters.get(t).value,l=e.currentTime;n instanceof u?m(n,r,l):(i.splice(0,0,new u(r,l)),o=0)}i.splice(o+1,0,n)}if(u.prototype.func=function(e){return e>=this.eventTime?this.v:this.v0},f.prototype.func=function(e){return e>=this.eventTime?this.v1:e<=this.t0||this.v1*this.v0<=0?this.v0:this.v0*Math.pow(this.v1/this.v0,(e-this.t0)/(this.eventTime-this.t0))},h.prototype.func=function(e){return e>=this.eventTime?this.v1:e<=this.t0?this.v0:this.v0+(this.v1-this.v0)*(e-this.t0)/(this.eventTime-this.t0)},d.prototype.func=function(e){return e<=this.eventTime?this.v0:this.v1+(this.v0-this.v1)*Math.exp((this.eventTime-e)/this.tau)},p.prototype.func=function(e){if(e<=this.eventTime)return this.v0;var t=this.duration/(this.values.length-1),n=Math.floor((e-this.eventTime)/t);return n>=this.values.length-1?this.values[this.values.length-1]:this.values[n]+(this.values[n+1]-this.values[n])*(e-(n*t+this.eventTime))/t},a.parameters=new Map,s.properties)for(var g=function(){var t=s.properties[y],n=e.createGain().gain;n.value=t.defaultValue,n.cancelAndHoldAtTime=function(e){for(var n=c.get(t.name),i=0;i<n.length&&n[i].eventTime<=e;)i++;var o=i>0?n[i-1]:null,r=i<n.length?n[i]:null;if(r instanceof h||r instanceof f){for(var l=1;l<=i;l++){var s=n[l-1].eventTime;m(n[l],n[l-1].func(s),s)}r.v1=r.func(e),r.eventTime=e,i+=1}else if(o instanceof d){for(var a=1;a<i;a++){var v=n[a-1].eventTime;m(n[a],n[a-1].func(v),v)}n.splice(i,0,new u(o.func(e),e)),i+=1}else if(o instanceof p&&e<o.eventTime+o.duration){var g=o.func(e),y=Math.floor((e-o.eventTime)/o.duration*o.values.length);o.duration=y/o.values.length*o.duration,o.values.splice(y),n.splice(i,0,new h(g,e))}n.splice(i)},n.cancelScheduledValues=function(e){for(var n=c.get(t.name),i=0;i<n.length&&n[i].eventTime<=e;)i++;n.splice(i);for(var o=1;o<i;o++){var r=n[o-1].eventTime;m(n[o],n[o-1].func(r),r)}i>0&&n.push(new u(n[i-1].func(e),e))},n.exponentialRampToValueAtTime=function(n,i){i<e.currentTime&&(i=e.currentTime),v(t.name,new f(n,i))},n.linearRampToValueAtTime=function(n,i){i<e.currentTime&&(i=e.currentTime),v(t.name,new h(n,i))},n.setTargetAtTime=function(n,i,o){i<e.currentTime&&(i=e.currentTime),v(t.name,new d(n,i,o))},n.setValueAtTime=function(e,n){v(t.name,new u(e,n))},n.setValueAtTime=function(n,i,o){i<e.currentTime&&(i=e.currentTime),v(t.name,new p(Array.from(n),i,o))},a.parameters.set(t.name,n),c.set(t.name,[])},y=0;y<s.properties.length;y++)g();var T=new MessageChannel;t=T.port2;var b=new s.Processor(l||{});return t=null,a.port=T.port1,a.processor=s,a.instance=b,a.onaudioprocess=function(t){var o=this,r={},l=-1;this.parameters.forEach((function(t,i){var s=n[++l]||(n[l]=new Float32Array(o.bufferSize)),a=c.get(i);if(0===a.length)s.fill(t.value);else{for(var u=0;u<s.length;u++){for(var f=e.currentTime+u/e.sampleRate;0!==a.length&&f>a[0].eventTime;){if(a[0]instanceof d){if(a.length<2)break;if(a[1]instanceof d&&f<a[1].eventTime)break;t.value=a[0].func(a[1].eventTime)}else if(a[0]instanceof p){if(f<a[0].eventTime+a[0].duration)break;t.value=a[0].values[a[0].values.length-1]}else t.value=a[0].func(a[0].eventTime);a.shift(),0!==a.length&&m(a[0],t.value,f)}if(0===a.length){s.fill(t.value,u);break}s[u]=a[0].func(f)}t.value=s[s.length-1]}r[i]=s})),this.processor.realm.exec("self.sampleRate=sampleRate="+this.context.sampleRate+";self.currentTime=currentTime="+this.context.currentTime);var s=i(t.inputBuffer),a=i(t.outputBuffer);this.instance.process([s],[a],r)},a},Object.defineProperty((self.AudioContext||self.webkitAudioContext).prototype,"audioWorklet",{get:function(){return this.$$audioWorklet||(this.$$audioWorklet=new self.AudioWorklet(this))}}),self.AudioWorklet=function(){function n(e){this.$$context=e}return n.prototype.addModule=function(n,i){var r=this;return fetch(n).then((function(e){if(!e.ok)throw Error(e.status);return e.text()})).then((function(n){var l={sampleRate:0,currentTime:0,AudioWorkletProcessor:function(){this.port=t},registerProcessor:function(e,t){o(r.$$context)[e]={realm:s,context:l,Processor:t,properties:t.parameterDescriptors||[]}}};l.self=l;var s=new e(l,document.documentElement);return s.exec((i&&i.transpile||String)(n)),null}))},n}())}();

diff --git a/sw.js b/sw.js
@@ -1,1 +1,1 @@
-const s="jsdafx-41da367f7977490ff0148ad367ec4b877dd2ca8a64227c5c2fe51f78b550f550",a=["index.html","install-sw.js","noisesourceproc.js","common.js","audio/434013__mrpearch__drum-patern.mp3","audio/Ada_Lovelace_(As_Told_By_U.S._Chief_Technology_Officer_Megan_Smith).mp3","audio/BluesHawk1.wav","audio/Burns1.wav","audio/DittersdorfOvid2.ogx","audio/captain-pretzel_ghost-gulping.wav","audio/unfinite_function.mp3","images/ant_logo.png","images/delays/chorus1.png","images/delays/flanger1.png","images/delays/tremolo1.png","images/delays/vibrato1.png","images/drc/diag1.png","images/drc/diag2.png","images/home.png","images/ovs/ns5.png","images/ovs/ns5b.png","images/ovs/ns5c.png","images/ovs/ns5d.png","images/qds/ns5.png","images/qds/ns5b.png","images/qds/ns5c.png","images/qds/ns5d.png","qdsproc.js","qds.html","qds.js","ovsproc.js","ovs.html","ovs.js","eqproc.js","eq.html","eq.js","distortionproc.js","distortion.html","distortion.js","masking.html","masking.js","delays.html","delays.js","fastconv.html","fastconv.js","drcproc.js","drc.html","drc.js","images/eq.png","images/distortion.png","images/masking.png","images/fastconv.png"];self.addEventListener("install",(e=>{e.waitUntil((async()=>(await caches.open(s)).addAll(a))())}));self.addEventListener("fetch",(s=>{s.respondWith((async s=>await caches.match(s)||(console.warn("Missing from cache: ",s.url),fetch(s)))(s.request))}));self.addEventListener("activate",(a=>{a.waitUntil((async()=>{const a=(await caches.keys()).filter((a=>a!==s));return Promise.all(a.map((s=>caches.delete(s))))})())}));
+const s="jsdafx-569423bbff20b79c6eff81c0b9d563a81c632012bd930b36fd8da97d8fe905d3",a=["index.html","install-sw.js","noisesourceproc.js","common.js","audio/434013__mrpearch__drum-patern.mp3","audio/Ada_Lovelace_(As_Told_By_U.S._Chief_Technology_Officer_Megan_Smith).mp3","audio/BluesHawk1.wav","audio/Burns1.wav","audio/DittersdorfOvid2.ogx","audio/captain-pretzel_ghost-gulping.wav","audio/unfinite_function.mp3","images/ant_logo.png","images/delays/chorus1.png","images/delays/flanger1.png","images/delays/tremolo1.png","images/delays/vibrato1.png","images/drc/diag1.png","images/drc/diag2.png","images/home.png","images/ovs/ns5.png","images/ovs/ns5b.png","images/ovs/ns5c.png","images/ovs/ns5d.png","images/qds/ns5.png","images/qds/ns5b.png","images/qds/ns5c.png","images/qds/ns5d.png","qdsproc.js","qds.html","qds.js","ovsproc.js","ovs.html","ovs.js","eqproc.js","eq.html","eq.js","distortionproc.js","distortion.html","distortion.js","masking.html","masking.js","delays.html","delays.js","fastconv.html","fastconv.js","drcproc.js","drc.html","drc.js","images/eq.png","images/distortion.png","images/masking.png","images/fastconv.png"];self.addEventListener("install",(e=>{e.waitUntil((async()=>(await caches.open(s)).addAll(a))())}));self.addEventListener("fetch",(s=>{s.respondWith((async s=>await caches.match(s)||(console.warn("Missing from cache: ",s.url),fetch(s)))(s.request))}));self.addEventListener("activate",(a=>{a.waitUntil((async()=>{const a=(await caches.keys()).filter((a=>a!==s));return Promise.all(a.map((s=>caches.delete(s))))})())}));
